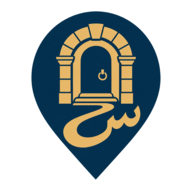
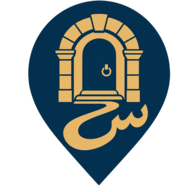
Changes

diff --git a/src/components/AppHeader.tsx b/src/components/AppHeader.tsx
@@ -19,7 +19,7 @@ import { supabase } from "@/integrations/supabase/client";
 import { useI18n } from "@/lib/i18n";
 import { LanguageToggle } from "@/components/LanguageToggle";
 import { cn } from "@/lib/utils";
-import logoAsset from "@/assets/syriasan-logo.png.asset.json";
+import logoAsset from "@/assets/syriasan-logo-v2.png.asset.json";
 
 export function AppHeader() {
   const router = useRouter();
